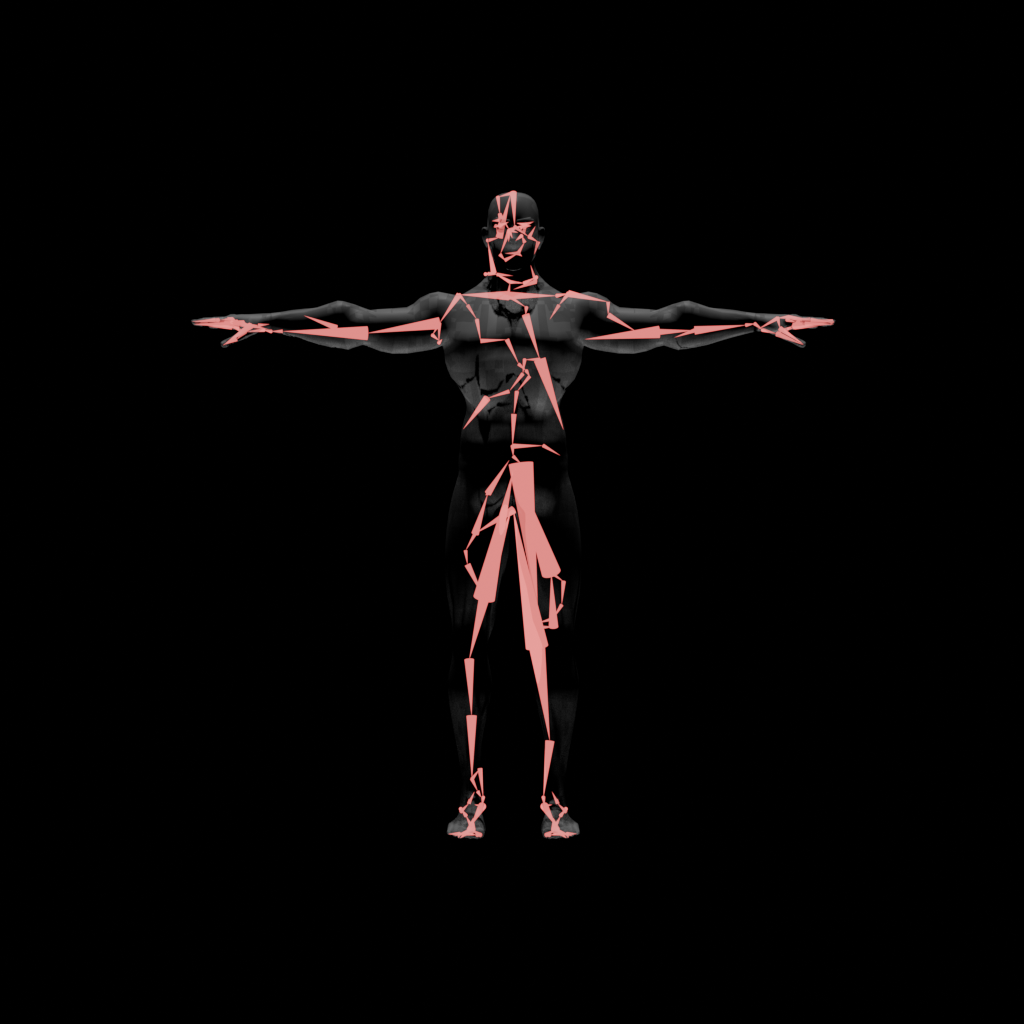
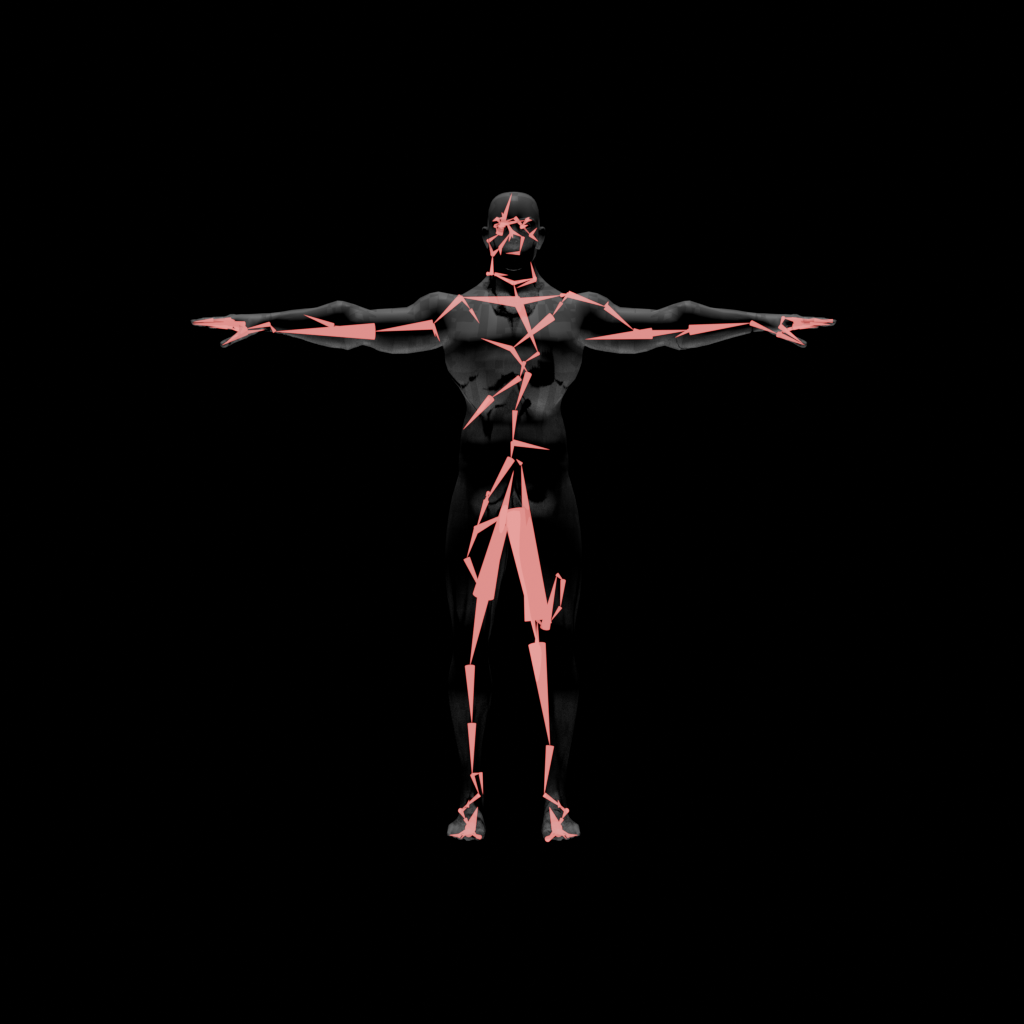
Módulo 1 (1.1b): densificación selectiva de aristas en bruto anormalmente largas
densify_long_edges(graph, mesh_path, threshold_pct=0.10, fine_step_size=1):
para cada arista del grafo en bruto (step_size=2) que supere el umbral
relativo a la diagonal del modelo, recalcula by_wavefront sobre la misma
malla a step_size=1, localiza por posición los nodos más cercanos a cada
extremo en ese resultado más fino, y sustituye la arista por el camino
más corto real entre ellos, insertando sus nodos intermedios. Se aplica
antes de merge_components/collapse_short_edges/simplify_chains_rdp.

Investigado y confirmado por código fuente (skeletor/skeletonize/wave.py):
el nivel geodésico fino se calcula internamente en todos los casos, pero
solo se descarta/agrupa según step_size ANTES de calcular los centros de
anillo — no queda accesible en el resultado ya agrupado (ni mesh_map ni
ningún otro atributo de Skeleton), así que hay que recalcular, no se puede
"leer" de una sola llamada a step_size=2.

Distribución de longitudes de aristas en bruto (% de la diagonal propia)
revisada en los 3 modelos antes de fijar el umbral en 10%: contra la
hipótesis inicial de que solo afectaría a la vaca, biped tiene 6 aristas
por encima del 10% (hasta 18.17%) y bat tiene 8 (hasta 32.0%) - ambos SÍ
se ven afectados, aunque mucho menos que la vaca en la práctica.

Nodos finales tras el pipeline completo, antes -> después de añadir la
densificación (con _WAVEFRONT_STEP_SIZE=2 en los 3 casos):
- cow_unrigged:   20 -> 28 nodos, profundidad 4 -> 6
[…]

diff --git a/backend/app/skeletonization.py b/backend/app/skeletonization.py
@@ -1,7 +1,8 @@
 """Módulo 1 — esqueletización de mallas.
 
 1.1: esqueletización en bruto (posiblemente con varias componentes
-     desconectadas).
+     desconectadas) + densificación selectiva de aristas anormalmente
+     largas (recalculadas a mayor resolución solo donde hace falta).
 1.2: fusión de componentes en un único árbol + selección de raíz.
 1.3: simplificación de tramos rectos (Ramer-Douglas-Peucker por tramo,
      entre bifurcaciones/hojas/raíz) + jerarquía padre-hijo.
@@ -33,6 +34,32 @@ import trimesh
 _WAVEFRONT_STEP_SIZE = 2
 
 
+def _load_and_prepare_mesh(mesh_path: str) -> trimesh.Trimesh:
+    """Carga una malla y la deja lista para skeletor.skeletonize.*.
+
+    Los exportadores glTF duplican vértices por cara (normales/UVs
+    distintos por cara plana), así que la malla "en crudo" está partida
+    en cientos de fragmentos de 1 sola cara. Fusionar vértices por
+    posición reconstruye la conectividad real de la superficie, algo
+    imprescindible para que la contracción/skeletonización tenga sentido.
+    """
+    mesh = trimesh.load(mesh_path, force="mesh")
+    mesh.merge_vertices()
+    return mesh
+
+
+def _wavefront_graph(mesh: trimesh.Trimesh, step_size: int) -> nx.Graph:
+    """Ejecuta by_wavefront y devuelve el resultado como networkx.Graph."""
+    skeleton = skeletor.skeletonize.by_wavefront(
+        mesh, waves=1, step_size=step_size, progress=False
+    )
+    graph = nx.Graph()
+    for node_id, position in enumerate(skeleton.vertices):
+        graph.add_node(node_id, pos=tuple(float(c) for c in position))
+    graph.add_edges_from((int(a), int(b)) for a, b in skeleton.edges)
+    return graph
+
+
 def extract_skeleton_graph(mesh_path: str) -> nx.Graph:
     """Carga una malla y devuelve su esqueleto en bruto como grafo.
 
@@ -41,25 +68,92 @@ def extract_skeleton_graph(mesh_path: str) -> nx.Graph:
     (sin ciclos) — la clasificación de raíz/extremidades y la generación
     del Armature se hacen en un paso posterior (Módulo 1.2).
     """
-    mesh = trimesh.load(mesh_path, force="mesh")
+    mesh = _load_and_prepare_mesh(mesh_path)
+    return _wavefront_graph(mesh, _WAVEFRONT_STEP_SIZE)
 
-    # Los exportadores glTF duplican vértices por cara (normales/UVs
-    # distintos por cara plana), así que la malla "en crudo" está partida
-    # en cientos de fragmentos de 1 sola cara. Fusionar vértices por
-    # posición reconstruye la conectividad real de la superficie, algo
-    # imprescindible para que la contracción/skeletonización tenga sentido.
-    mesh.merge_vertices()
 
-    skeleton = skeletor.skeletonize.by_wavefront(
-        mesh, waves=1, step_size=_WAVEFRONT_STEP_SIZE, progress=False
-    )
+def densify_long_edges(
+    graph: nx.Graph,
+    mesh_path: str,
+    threshold_pct: float = 0.10,
+    fine_step_size: int = 1,
+) -> nx.Graph:
+    """Sustituye aristas del grafo en bruto anormalmente largas por el
+    camino real entre sus extremos, tomado de un esqueleto recalculado a
+    mayor resolución.
 
-    graph = nx.Graph()
-    for node_id, position in enumerate(skeleton.vertices):
-        graph.add_node(node_id, pos=tuple(float(c) for c in position))
-    graph.add_edges_from((int(a), int(b)) for a, b in skeleton.edges)
+    ``skeletor.skeletonize.by_wavefront`` calcula internamente un nivel
+    geodésico por vértice (uno por cada salto de arista) y solo lo agrupa
+    en anillos más gruesos si ``step_size > 1`` — esa agrupación ocurre
+    antes de calcular los centros de anillo, así que el nivel de detalle
+    fino no queda accesible en el resultado ya agrupado (ni en
+    ``Skeleton.mesh_map`` ni en ningún otro atributo): hay que recalcular.
 
-    return graph
+    Para cada arista de ``graph`` cuya longitud supere ``threshold_pct`` de
+    la diagonal del modelo, se recalcula ``by_wavefront`` sobre la misma
+    malla con ``fine_step_size`` (por defecto 1, la resolución máxima), se
+    localizan por posición (no por id — los ids no son comparables entre
+    llamadas) los nodos de ese esqueleto fino más cercanos a cada extremo
+    de la arista larga, y se sustituye la arista original por el camino
+    más corto entre ellos en el grafo fino, insertando sus nodos
+    intermedios (con ids nuevos) en ``graph``.
+
+    El esqueleto fino solo se calcula una vez (perezosamente, la primera
+    vez que hace falta) aunque haya varias aristas marcadas, ya que
+    depende únicamente de la malla y de ``fine_step_size``, no de la
+    arista en cuestión.
+    """
+    positions = [graph.nodes[n]["pos"] for n in graph.nodes]
+    xs = [p[0] for p in positions]
+    ys = [p[1] for p in positions]
+    zs = [p[2] for p in positions]
+    diagonal = math.dist((min(xs), min(ys), min(zs)), (max(xs), max(ys), max(zs)))
+    threshold = threshold_pct * diagonal
+
+    long_edges = [
+        (u, v)
+        for u, v in graph.edges()
+        if math.dist(graph.nodes[u]["pos"], graph.nodes[v]["pos"]) > threshold
+    ]
+    if not long_edges:
+        return graph.copy()
+
+    fine_mesh = _load_and_prepare_mesh(mesh_path)
+    fine_graph = _wavefront_graph(fine_mesh, fine_step_size)
+    fine_positions = {n: fine_graph.nodes[n]["pos"] for n in fine_graph.nodes}
+
+    def nearest_fine_node(target_pos: tuple[float, float, float]) -> int:
+        return min(
+            fine_positions, key=lambda n: math.dist(fine_positions[n], target_pos)
+        )
+
+    densified = graph.copy()
+    next_id = max(graph.nodes) + 1
+
+    for u, v in long_edges:
+        fine_u = nearest_fine_node(graph.nodes[u]["pos"])
+        fine_v = nearest_fine_node(graph.nodes[v]["pos"])
+        if fine_u == fine_v or not nx.has_path(fine_graph, fine_u, fine_v):
+            continue  # nada que insertar, o la malla fina no conecta ambos puntos
+
+        fine_path = nx.shortest_path(fine_graph, fine_u, fine_v)
+        intermediate_fine_nodes = fine_path[1:-1]
+        if not intermediate_fine_nodes:
+            continue  # el camino fino no aporta nodos intermedios: nada que hacer
+
+        densified.remove_edge(u, v)
+
+        chain = [u]
+        for fine_node in intermediate_fine_nodes:
+            new_id = next_id
+            next_id += 1
+            densified.add_node(new_id, pos=fine_positions[fine_node])
+            chain.append(new_id)
+        chain.append(v)
+
+        densified.add_edges_from(zip(chain, chain[1:]))
+
+    return densified
 
 
 def _closest_pair(

diff --git a/backend/scripts/inspect_skeleton.py b/backend/scripts/inspect_skeleton.py
@@ -17,6 +17,7 @@ sys.path.insert(0, str(Path(__file__).resolve().parents[2]))
 from backend.app.skeletonization import (
     build_hierarchy,
     collapse_short_edges,
+    densify_long_edges,
     extract_skeleton_graph,
     merge_components,
     select_root,
@@ -29,6 +30,12 @@ from backend.app.skeletonization import (
 # tratamiento especial más adelante (fusionar con el padre, descartar, etc.
 # — todavía no decidido, solo se detecta aquí).
 _SHORT_BONE_THRESHOLD_PCT = 0.005
+
+# Umbral para marcar aristas del grafo EN BRUTO anormalmente largas
+# (densify_long_edges las sustituye por el camino real, recalculado a
+# mayor resolución). Punto de partida tras revisar la distribución de
+# longitudes de los 3 modelos — ver histórico de commits para los datos.
+_LONG_EDGE_THRESHOLD_PCT = 0.10
 
 # Tolerancia de Ramer-Douglas-Peucker para simplificar tramos rectos: un
 # punto intermedio de un tramo sobrevive si se desvía más de este % de la
@@ -142,8 +149,41 @@ def main(mesh_path: str) -> None:
             f"distancia={data['weight']:.4f}"
         )
 
+    # --- 1.1b: densificación selectiva de aristas en bruto anormalmente
+    # largas (antes de fusión/colapso/RDP, para que esos pasos actúen ya
+    # sobre el grafo densificado) ---
+    raw_positions = [graph.nodes[n]["pos"] for n in graph.nodes]
+    raw_xs = [p[0] for p in raw_positions]
+    raw_ys = [p[1] for p in raw_positions]
+    raw_zs = [p[2] for p in raw_positions]
+    raw_diagonal = math.dist(
+        (min(raw_xs), min(raw_ys), min(raw_zs)),
+        (max(raw_xs), max(raw_ys), max(raw_zs)),
+    )
+    long_edge_threshold = _LONG_EDGE_THRESHOLD_PCT * raw_diagonal
+    long_edges_before = [
+        (u, v)
+        for u, v in graph.edges()
+        if math.dist(graph.nodes[u]["pos"], graph.nodes[v]["pos"]) > long_edge_threshold
+    ]
+    densified = densify_long_edges(
+        graph, mesh_path, threshold_pct=_LONG_EDGE_THRESHOLD_PCT
+    )
+
+    print()
+    print(
+        f"--- Densificación (1.1b): aristas > {_LONG_EDGE_THRESHOLD_PCT * 100:.0f}% "
+        "de la diagonal, sustituidas por el camino fino real ---"
+    )
+    print(f"Aristas marcadas: {len(long_edges_before)}")
+    for u, v in long_edges_before:
+        print(f"  {u} -> {v}")
+    print(f"Nodos antes de densificar: {graph.number_of_nodes()}")
+    print(f"Nodos después de densificar: {densified.number_of_nodes()}")
+    print(f"Nodos intermedios insertados: {densified.number_of_nodes() - graph.number_of_nodes()}")
+
     # --- 1.2: fusión real de componentes + selección de raíz ---
-    merged = merge_components(graph)
+    merged = merge_components(densified)
     root = select_root(merged)
     root_pos = merged.nodes[root]["pos"]
     root_degree = merged.degree[root]

diff --git a/backend/scripts/_export_skeleton_json.py b/backend/scripts/_export_skeleton_json.py
@@ -14,7 +14,8 @@ conversión de ejes se aplica aquí, antes de que ese script cree ningún
 hueso, tal como pide el sub-paso 1.4.
 
 Reproduce exactamente el mismo pipeline y los mismos parámetros
-(umbral de arista casi-cero, tolerancia RDP: 0.5% de la diagonal) que
+(umbral de arista larga a densificar: 10% de la diagonal; umbral de
+arista casi-cero y tolerancia RDP: 0.5% de la diagonal) que
 backend/scripts/inspect_skeleton.py, para que el Armature resultante
 corresponda al esqueleto ya diagnosticado en los pasos anteriores.
 
@@ -33,12 +34,14 @@ sys.path.insert(0, str(Path(__file__).resolve().parents[2]))
 from backend.app.skeletonization import (
     build_hierarchy,
     collapse_short_edges,
+    densify_long_edges,
     extract_skeleton_graph,
     merge_components,
     select_root,
     simplify_chains_rdp,
 )
 
+_LONG_EDGE_THRESHOLD_PCT = 0.10
 _SHORT_EDGE_THRESHOLD_PCT = 0.005
 _RDP_TOLERANCE_PCT = 0.005
 
@@ -50,7 +53,10 @@ def gltf_to_blender(position: tuple[float, float, float]) -> tuple[float, float,
 
 def main(mesh_path: str, out_path: str) -> None:
     graph = extract_skeleton_graph(mesh_path)
-    merged = merge_components(graph)
+    densified = densify_long_edges(
+        graph, mesh_path, threshold_pct=_LONG_EDGE_THRESHOLD_PCT
+    )
+    merged = merge_components(densified)
     root = select_root(merged)
 
     positions = [merged.nodes[n]["pos"] for n in merged.nodes]
